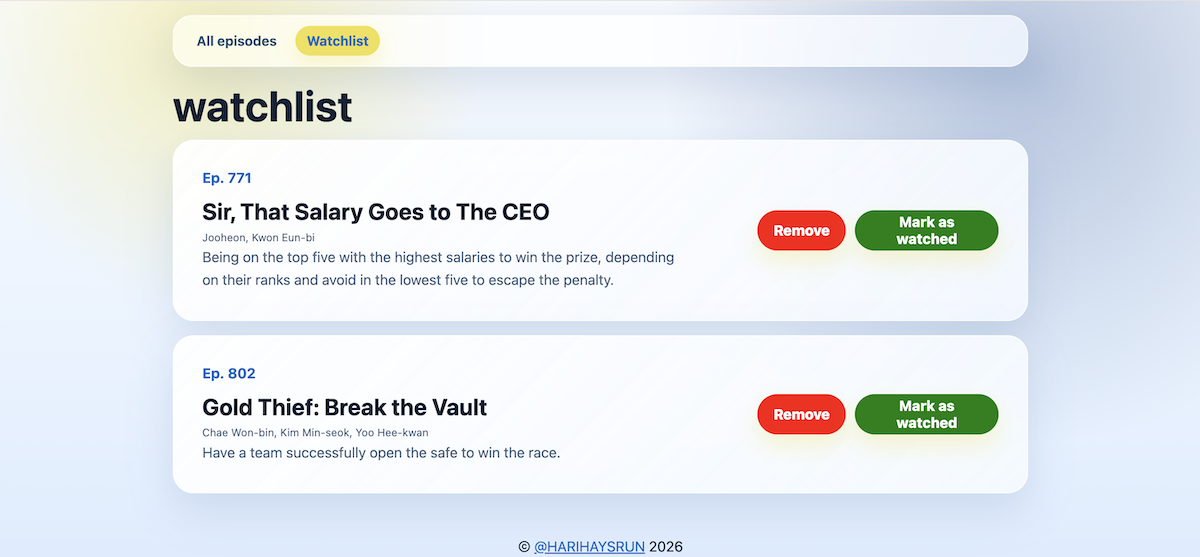
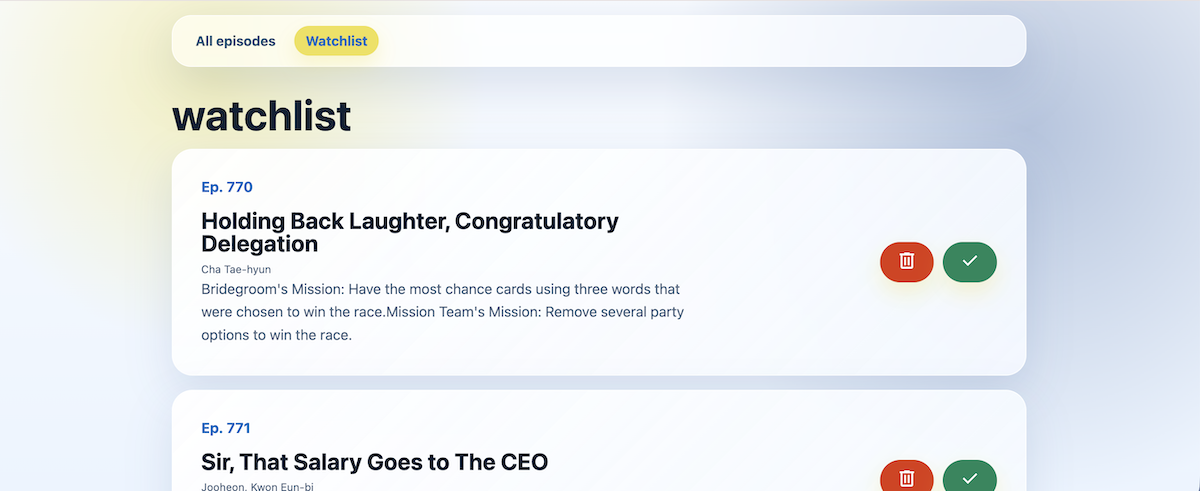
docs: update README

diff --git a/README.md b/README.md
@@ -40,7 +40,7 @@ Flask Web Application
 
 `rm_load.py` loads the transformed data into PostgreSQL using Pandas and SQLAlchemy, with parameterised queries and context-managed database connections.
 
-### Orchestration & Automation
+### 4. Orchestration & Automation
 
 The ETL pipeline is currently automated using **GitHub Actions**, with a scheduled workflow that runs the pipeline weekly.
 
